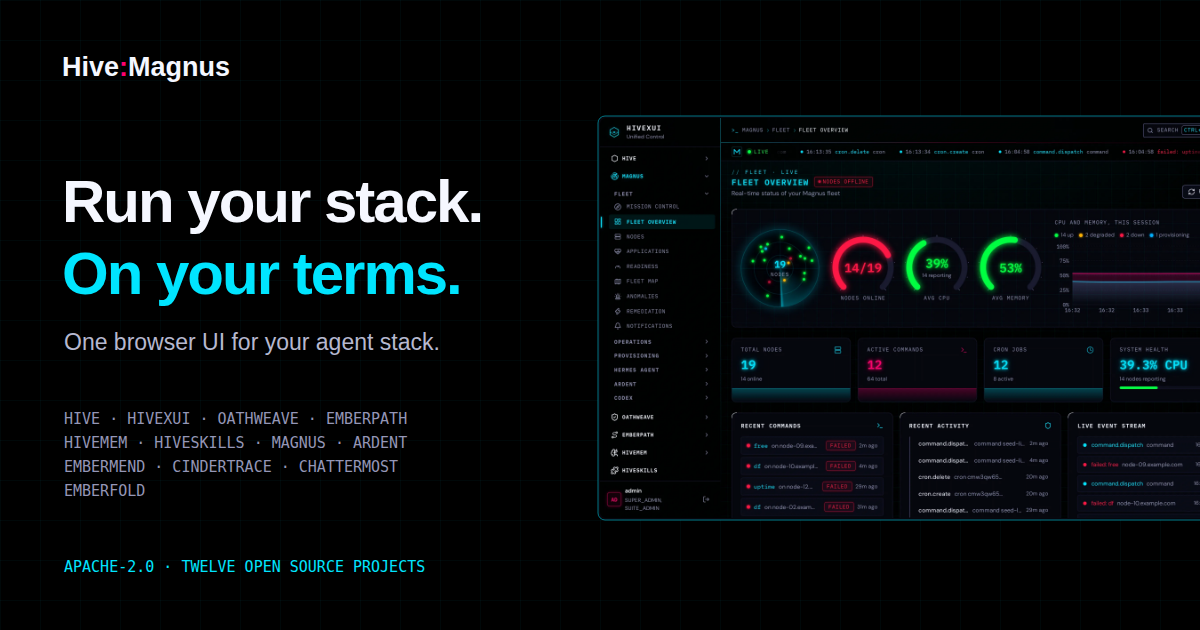
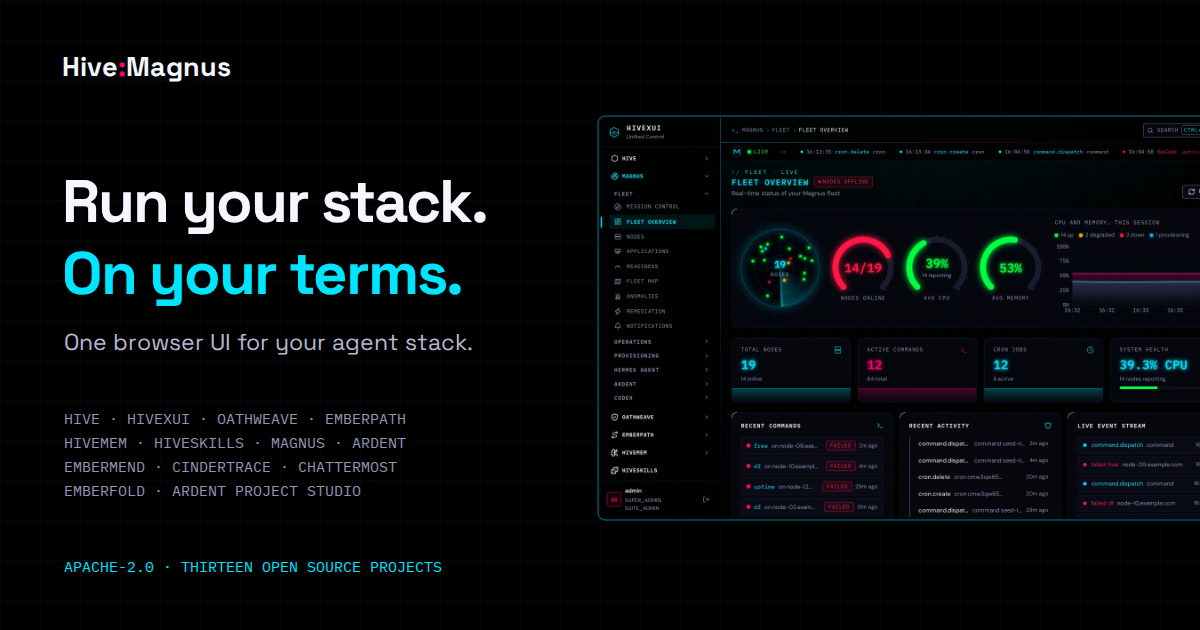
site: one-year HSTS and a social preview naming all thirteen projects (#29)

diff --git a/index.html b/index.html
@@ -14,7 +14,7 @@
     />
     <meta
       property="og:description"
-      content="Deploy your agent stack with Hive. Explore twelve open source products, one browser UI, a signed Linux installer and guided Tailscale setup."
+      content="Deploy your agent stack with Hive. Explore thirteen open source projects, one browser UI, a signed Linux installer and guided Tailscale setup."
     />
     <meta property="og:type" content="website" />
     <meta property="og:url" content="https://hivemagnus.com/" />

diff --git a/docs/media.md b/docs/media.md
@@ -62,7 +62,7 @@ Ardent's section reuses `fleet-mission.webp`, explicitly labeled as Magnus missi
 
 No new operational captures, user data or generated product screens were introduced. The previous tabbed gallery layout is recorded in Git history.
 
-The social preview (`og.svg` and `og.png`) names all ten projects and shows `captures/fleet-overview.webp`, cropped, in a console-styled frame. The rest is original SVG artwork; the PNG is rendered in Chromium at 1200 × 630 and contains only public project names, website copy and that synthetic capture.
+The social preview (`og.svg` and `og.png`) names all thirteen projects and shows `captures/fleet-overview.webp`, cropped, in a console-styled frame. The rest is original SVG artwork; the PNG is rendered in Chromium at 1200 × 630 and contains only public project names, website copy and that synthetic capture.
 
 ## Embermend recommendations, 2026-11-12
 
@@ -86,3 +86,7 @@ not present an approved or completed production remediation.
 The 2026-11-12 social preview adds Embermend and Ardent to the twelve project
 names. Its SVG retains the existing synthetic fleet capture; Chromium renders
 the PNG at 1200 × 630. No production data or new operational image is introduced.
+
+The 2026-11-17 social preview adds Ardent Project Studio, so it names all thirteen
+projects, and the footer reads "Thirteen open source projects". Only text changed;
+the capture is the same synthetic `fleet-overview.webp`.

diff --git a/docs/deployment.md b/docs/deployment.md
@@ -16,7 +16,7 @@ For a site change, run `npm ci`, `npm run build`, and the browser check document
 
 After deployment, check the canonical domain in a real browser, verify the certificate, navigate every walkthrough, copy a command, and open the UI captures. Confirm the served deployment corresponds to the intended Git commit. The static response policy is in `public/_headers`. Unknown paths must return the `public/404.html` page with status 404; without that file Pages answers every path with `index.html` and status 200.
 
-HSTS starts at `max-age=86400`. Raise it to `31536000` once HTTPS has stayed healthy for a week or two. It omits `includeSubDomains` and `preload`, so it applies only to the host that sends it; add those only after confirming every current and future subdomain serves HTTPS.
+HSTS uses `max-age=31536000` (one year), raised from the initial `86400` on 2026-11-17 after HTTPS stayed healthy. It omits `includeSubDomains` and `preload`, so it applies only to the host that sends it; add those only after confirming every current and future subdomain serves HTTPS.
 
 HTML uses `no-transform` to keep automatic proxy script injection from conflicting with the site's source-only content policy. No analytics script is part of this site.
 
